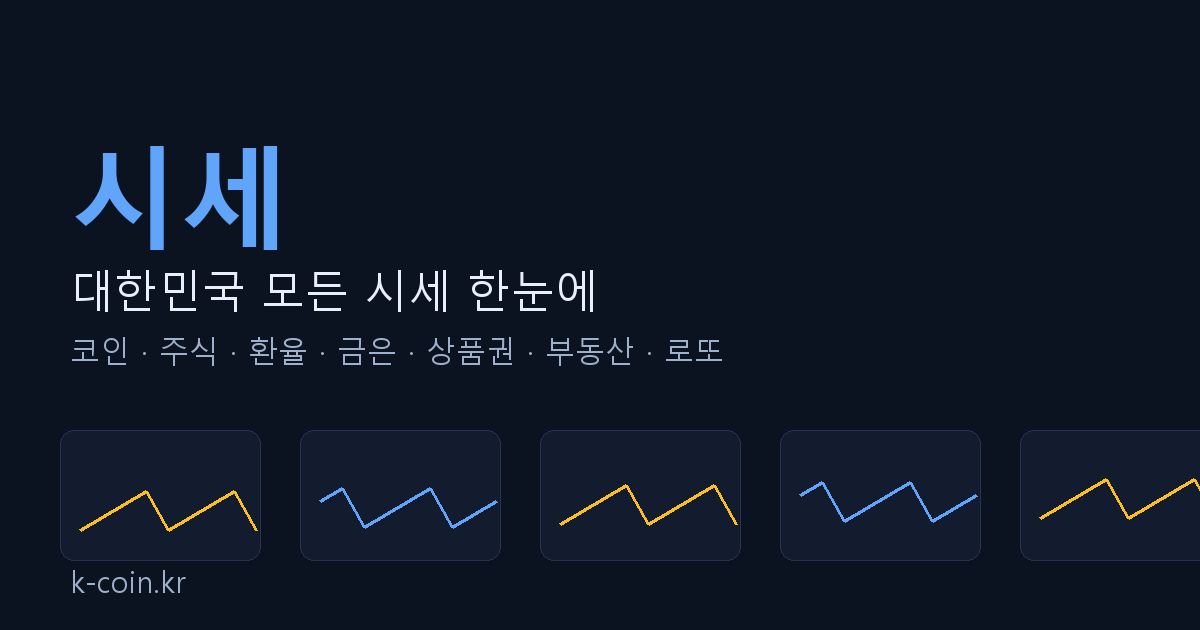
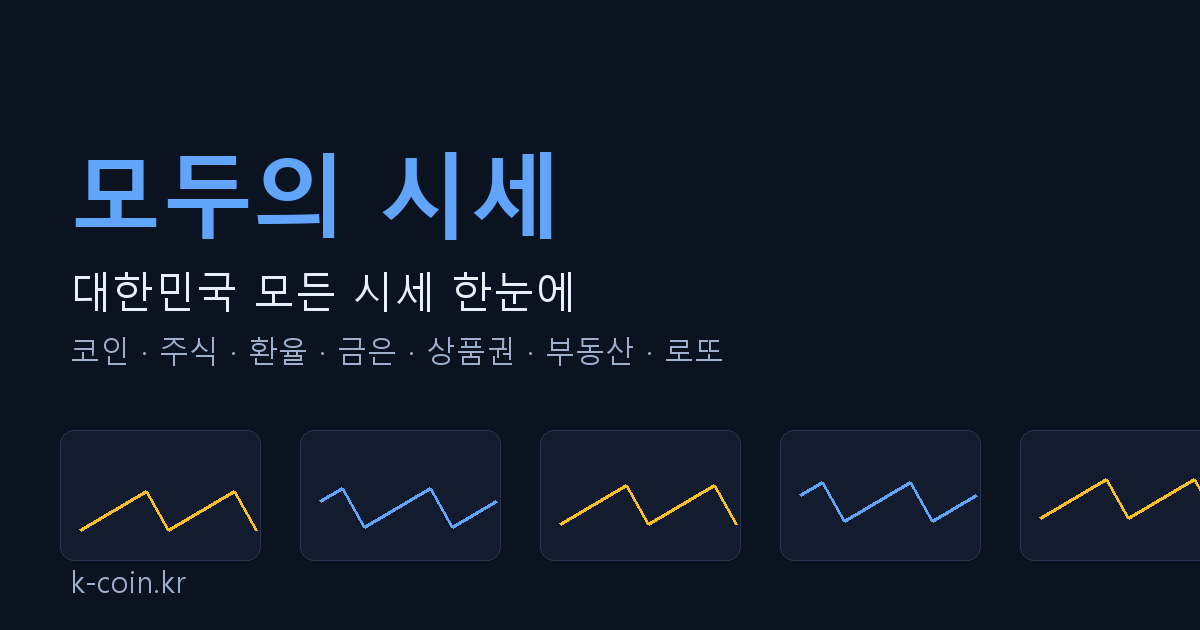
feat: 사이트명을 "모두의 시세"로 변경 + SEO 메타 정비
- 9개 페이지 제목을 "키워드 | 모두의 시세" 패턴으로 통일 (30자 내외)
- 페이지별 고유 설명문 재작성 (34~68자)
- og:site_name · JSON-LD name · 헤더 브랜드 마크 · OG 이미지 · README 반영

"시세" 단독은 일반명사라 브랜드 검색이 불가능했습니다.
"모두의 시세"는 고유 조합이라 브랜드 검색 유입을 만들 수 있습니다.

Changed region(s): [[0.0617, 0.2111, 0.2775, 0.3921], [0.0617, 0.4222, 0.4933, 0.5127], [0.3083, 0.2413, 0.4625, 0.3921]]

diff --git a/index.html b/index.html
@@ -3,30 +3,30 @@
 <head>
 <meta charset="utf-8">
 <meta name="viewport" content="width=device-width, initial-scale=1">
-<title>실시간 종합 시세 | 시세 — 대한민국 모든 시세 한눈에</title>
-<meta name="description" content="코인·주식·코스닥·환율·금·상품권·부동산·로또 시세를 한 화면에서 확인하세요.">
+<title>모두의 시세 — 대한민국 모든 시세 한눈에</title>
+<meta name="description" content="코인·주식·코스닥·환율·금·상품권·부동산·로또까지, 대한민국 모든 시세를 한 화면에서 확인하세요. 매시간 자동 갱신됩니다.">
 <link rel="canonical" href="https://k-coin.kr/">
 <meta name="theme-color" content="#0b1220">
 <link rel="icon" type="image/png" sizes="32x32" href="/assets/favicon-32.png">
 <link rel="apple-touch-icon" href="/assets/apple-touch-icon.png">
 <meta property="og:type" content="website">
-<meta property="og:site_name" content="시세 — 대한민국 모든 시세 한눈에">
+<meta property="og:site_name" content="모두의 시세">
 <meta property="og:locale" content="ko_KR">
-<meta property="og:title" content="실시간 종합 시세 | 시세 — 대한민국 모든 시세 한눈에">
-<meta property="og:description" content="코인·주식·코스닥·환율·금·상품권·부동산·로또 시세를 한 화면에서 확인하세요.">
+<meta property="og:title" content="모두의 시세 — 대한민국 모든 시세 한눈에">
+<meta property="og:description" content="코인·주식·코스닥·환율·금·상품권·부동산·로또까지, 대한민국 모든 시세를 한 화면에서 확인하세요. 매시간 자동 갱신됩니다.">
 <meta property="og:url" content="https://k-coin.kr/">
 <meta property="og:image" content="https://k-coin.kr/assets/og.png">
 <meta property="og:image:width" content="1200">
 <meta property="og:image:height" content="630">
 <meta name="twitter:card" content="summary_large_image">
-<meta name="twitter:title" content="실시간 종합 시세 | 시세 — 대한민국 모든 시세 한눈에">
-<meta name="twitter:description" content="코인·주식·코스닥·환율·금·상품권·부동산·로또 시세를 한 화면에서 확인하세요.">
+<meta name="twitter:title" content="모두의 시세 — 대한민국 모든 시세 한눈에">
+<meta name="twitter:description" content="코인·주식·코스닥·환율·금·상품권·부동산·로또까지, 대한민국 모든 시세를 한 화면에서 확인하세요. 매시간 자동 갱신됩니다.">
 <meta name="twitter:image" content="https://k-coin.kr/assets/og.png">
 <script type="application/ld+json">
 {
   "@context": "https://schema.org",
   "@type": "WebSite",
-  "name": "시세",
+  "name": "모두의 시세",
   "alternateName": "대한민국 모든 시세 한눈에",
   "url": "https://k-coin.kr/",
   "inLanguage": "ko"
@@ -49,7 +49,7 @@ try{var t=localStorage.getItem('theme');if(t)document.documentElement.dataset.th
 
 <main class="wrap">
   <div class="page-head">
-    <h1>시세 <span class="h1-sub">대한민국 모든 시세 한눈에</span></h1>
+    <h1>모두의 시세 <span class="h1-sub">대한민국 모든 시세 한눈에</span></h1>
     <p class="lead">코인 · 주식 · 코스닥 · 환율 · 금은 · 상품권 · 부동산 · 로또를 한 곳에서 봅니다.</p>
   </div>
   <section class="panel">

diff --git a/stock.html b/stock.html
@@ -3,24 +3,24 @@
 <head>
 <meta charset="utf-8">
 <meta name="viewport" content="width=device-width, initial-scale=1">
-<title>주식시세 | 시세 — 대한민국 모든 시세 한눈에</title>
-<meta name="description" content="코스피와 S&P 500·나스닥·다우존스·닛케이 등 국내외 주요 주가지수.">
+<title>주식시세 | 모두의 시세</title>
+<meta name="description" content="코스피와 S&P 500·나스닥·다우존스·닛케이 등 국내외 주요 주가지수 시세를 한눈에 봅니다.">
 <link rel="canonical" href="https://k-coin.kr/stock">
 <meta name="theme-color" content="#0b1220">
 <link rel="icon" type="image/png" sizes="32x32" href="/assets/favicon-32.png">
 <link rel="apple-touch-icon" href="/assets/apple-touch-icon.png">
 <meta property="og:type" content="website">
-<meta property="og:site_name" content="시세 — 대한민국 모든 시세 한눈에">
+<meta property="og:site_name" content="모두의 시세">
 <meta property="og:locale" content="ko_KR">
-<meta property="og:title" content="주식시세 | 시세 — 대한민국 모든 시세 한눈에">
-<meta property="og:description" content="코스피와 S&P 500·나스닥·다우존스·닛케이 등 국내외 주요 주가지수.">
+<meta property="og:title" content="주식시세 | 모두의 시세">
+<meta property="og:description" content="코스피와 S&P 500·나스닥·다우존스·닛케이 등 국내외 주요 주가지수 시세를 한눈에 봅니다.">
 <meta property="og:url" content="https://k-coin.kr/stock">
 <meta property="og:image" content="https://k-coin.kr/assets/og.png">
 <meta property="og:image:width" content="1200">
 <meta property="og:image:height" content="630">
 <meta name="twitter:card" content="summary_large_image">
-<meta name="twitter:title" content="주식시세 | 시세 — 대한민국 모든 시세 한눈에">
-<meta name="twitter:description" content="코스피와 S&P 500·나스닥·다우존스·닛케이 등 국내외 주요 주가지수.">
+<meta name="twitter:title" content="주식시세 | 모두의 시세">
+<meta name="twitter:description" content="코스피와 S&P 500·나스닥·다우존스·닛케이 등 국내외 주요 주가지수 시세를 한눈에 봅니다.">
 <meta name="twitter:image" content="https://k-coin.kr/assets/og.png">
 <meta name="color-scheme" content="light dark">
 <link rel="preconnect" href="https://fonts.googleapis.com">

diff --git a/realestate.html b/realestate.html
@@ -3,24 +3,24 @@
 <head>
 <meta charset="utf-8">
 <meta name="viewport" content="width=device-width, initial-scale=1">
-<title>부동산시세 | 시세 — 대한민국 모든 시세 한눈에</title>
-<meta name="description" content="전국 시도별 아파트 실거래가를 지도에서 확인합니다.">
+<title>부동산시세 | 모두의 시세</title>
+<meta name="description" content="전국 지도에서 지역을 선택해 아파트 매매 실거래가와 시군구별 평균 단가·거래량을 확인합니다.">
 <link rel="canonical" href="https://k-coin.kr/realestate">
 <meta name="theme-color" content="#0b1220">
 <link rel="icon" type="image/png" sizes="32x32" href="/assets/favicon-32.png">
 <link rel="apple-touch-icon" href="/assets/apple-touch-icon.png">
 <meta property="og:type" content="website">
-<meta property="og:site_name" content="시세 — 대한민국 모든 시세 한눈에">
+<meta property="og:site_name" content="모두의 시세">
 <meta property="og:locale" content="ko_KR">
-<meta property="og:title" content="부동산시세 | 시세 — 대한민국 모든 시세 한눈에">
-<meta property="og:description" content="전국 시도별 아파트 실거래가를 지도에서 확인합니다.">
+<meta property="og:title" content="부동산시세 | 모두의 시세">
+<meta property="og:description" content="전국 지도에서 지역을 선택해 아파트 매매 실거래가와 시군구별 평균 단가·거래량을 확인합니다.">
 <meta property="og:url" content="https://k-coin.kr/realestate">
 <meta property="og:image" content="https://k-coin.kr/assets/og.png">
 <meta property="og:image:width" content="1200">
 <meta property="og:image:height" content="630">
 <meta name="twitter:card" content="summary_large_image">
-<meta name="twitter:title" content="부동산시세 | 시세 — 대한민국 모든 시세 한눈에">
-<meta name="twitter:description" content="전국 시도별 아파트 실거래가를 지도에서 확인합니다.">
+<meta name="twitter:title" content="부동산시세 | 모두의 시세">
+<meta name="twitter:description" content="전국 지도에서 지역을 선택해 아파트 매매 실거래가와 시군구별 평균 단가·거래량을 확인합니다.">
 <meta name="twitter:image" content="https://k-coin.kr/assets/og.png">
 <meta name="color-scheme" content="light dark">
 <link rel="preconnect" href="https://fonts.googleapis.com">

diff --git a/giftcard.html b/giftcard.html
@@ -3,24 +3,24 @@
 <head>
 <meta charset="utf-8">
 <meta name="viewport" content="width=device-width, initial-scale=1">
-<title>상품권시세 | 시세 — 대한민국 모든 시세 한눈에</title>
-<meta name="description" content="백화점 상품권 매입가·판매가를 업체별로 비교합니다.">
+<title>상품권시세 | 모두의 시세</title>
+<meta name="description" content="롯데·신세계·현대 등 백화점 상품권 매입가·판매가를 상품권 업체별로 비교합니다.">
 <link rel="canonical" href="https://k-coin.kr/giftcard">
 <meta name="theme-color" content="#0b1220">
 <link rel="icon" type="image/png" sizes="32x32" href="/assets/favicon-32.png">
 <link rel="apple-touch-icon" href="/assets/apple-touch-icon.png">
 <meta property="og:type" content="website">
-<meta property="og:site_name" content="시세 — 대한민국 모든 시세 한눈에">
+<meta property="og:site_name" content="모두의 시세">
 <meta property="og:locale" content="ko_KR">
-<meta property="og:title" content="상품권시세 | 시세 — 대한민국 모든 시세 한눈에">
-<meta property="og:description" content="백화점 상품권 매입가·판매가를 업체별로 비교합니다.">
+<meta property="og:title" content="상품권시세 | 모두의 시세">
+<meta property="og:description" content="롯데·신세계·현대 등 백화점 상품권 매입가·판매가를 상품권 업체별로 비교합니다.">
 <meta property="og:url" content="https://k-coin.kr/giftcard">
 <meta property="og:image" content="https://k-coin.kr/assets/og.png">
 <meta property="og:image:width" content="1200">
 <meta property="og:image:height" content="630">
 <meta name="twitter:card" content="summary_large_image">
-<meta name="twitter:title" content="상품권시세 | 시세 — 대한민국 모든 시세 한눈에">
-<meta name="twitter:description" content="백화점 상품권 매입가·판매가를 업체별로 비교합니다.">
+<meta name="twitter:title" content="상품권시세 | 모두의 시세">
+<meta name="twitter:description" content="롯데·신세계·현대 등 백화점 상품권 매입가·판매가를 상품권 업체별로 비교합니다.">
 <meta name="twitter:image" content="https://k-coin.kr/assets/og.png">
 <meta name="color-scheme" content="light dark">
 <link rel="preconnect" href="https://fonts.googleapis.com">

diff --git a/lotto.html b/lotto.html
@@ -3,24 +3,24 @@
 <head>
 <meta charset="utf-8">
 <meta name="viewport" content="width=device-width, initial-scale=1">
-<title>로또 판매 규모 | 시세 — 대한민국 모든 시세 한눈에</title>
-<meta name="description" content="로또 6/45 회차별 당첨번호와 총 판매금액, 추정 구매자 수.">
+<title>로또 판매 규모 | 모두의 시세</title>
+<meta name="description" content="로또 6/45 회차별 당첨번호와 총 판매금액, 추정 구매자 수를 제공합니다.">
 <link rel="canonical" href="https://k-coin.kr/lotto">
 <meta name="theme-color" content="#0b1220">
 <link rel="icon" type="image/png" sizes="32x32" href="/assets/favicon-32.png">
 <link rel="apple-touch-icon" href="/assets/apple-touch-icon.png">
 <meta property="og:type" content="website">
-<meta property="og:site_name" content="시세 — 대한민국 모든 시세 한눈에">
+<meta property="og:site_name" content="모두의 시세">
 <meta property="og:locale" content="ko_KR">
-<meta property="og:title" content="로또 판매 규모 | 시세 — 대한민국 모든 시세 한눈에">
-<meta property="og:description" content="로또 6/45 회차별 당첨번호와 총 판매금액, 추정 구매자 수.">
+<meta property="og:title" content="로또 판매 규모 | 모두의 시세">
+<meta property="og:description" content="로또 6/45 회차별 당첨번호와 총 판매금액, 추정 구매자 수를 제공합니다.">
 <meta property="og:url" content="https://k-coin.kr/lotto">
 <meta property="og:image" content="https://k-coin.kr/assets/og.png">
 <meta property="og:image:width" content="1200">
 <meta property="og:image:height" content="630">
 <meta name="twitter:card" content="summary_large_image">
-<meta name="twitter:title" content="로또 판매 규모 | 시세 — 대한민국 모든 시세 한눈에">
-<meta name="twitter:description" content="로또 6/45 회차별 당첨번호와 총 판매금액, 추정 구매자 수.">
+<meta name="twitter:title" content="로또 판매 규모 | 모두의 시세">
+<meta name="twitter:description" content="로또 6/45 회차별 당첨번호와 총 판매금액, 추정 구매자 수를 제공합니다.">
 <meta name="twitter:image" content="https://k-coin.kr/assets/og.png">
 <meta name="color-scheme" content="light dark">
 <link rel="preconnect" href="https://fonts.googleapis.com">

diff --git a/coin.html b/coin.html
@@ -3,24 +3,24 @@
 <head>
 <meta charset="utf-8">
 <meta name="viewport" content="width=device-width, initial-scale=1">
-<title>코인시세 | 시세 — 대한민국 모든 시세 한눈에</title>
-<meta name="description" content="업비트 KRW 마켓 24시간 거래대금 상위 10개 코인 시세.">
+<title>코인시세 | 모두의 시세</title>
+<meta name="description" content="업비트 KRW 마켓 24시간 거래대금 상위 10개 코인의 실시간 시세와 최근 추이를 제공합니다.">
 <link rel="canonical" href="https://k-coin.kr/coin">
 <meta name="theme-color" content="#0b1220">
 <link rel="icon" type="image/png" sizes="32x32" href="/assets/favicon-32.png">
 <link rel="apple-touch-icon" href="/assets/apple-touch-icon.png">
 <meta property="og:type" content="website">
-<meta property="og:site_name" content="시세 — 대한민국 모든 시세 한눈에">
+<meta property="og:site_name" content="모두의 시세">
 <meta property="og:locale" content="ko_KR">
-<meta property="og:title" content="코인시세 | 시세 — 대한민국 모든 시세 한눈에">
-<meta property="og:description" content="업비트 KRW 마켓 24시간 거래대금 상위 10개 코인 시세.">
+<meta property="og:title" content="코인시세 | 모두의 시세">
+<meta property="og:description" content="업비트 KRW 마켓 24시간 거래대금 상위 10개 코인의 실시간 시세와 최근 추이를 제공합니다.">
 <meta property="og:url" content="https://k-coin.kr/coin">
 <meta property="og:image" content="https://k-coin.kr/assets/og.png">
 <meta property="og:image:width" content="1200">
 <meta property="og:image:height" content="630">
 <meta name="twitter:card" content="summary_large_image">
-<meta name="twitter:title" content="코인시세 | 시세 — 대한민국 모든 시세 한눈에">
-<meta name="twitter:description" content="업비트 KRW 마켓 24시간 거래대금 상위 10개 코인 시세.">
+<meta name="twitter:title" content="코인시세 | 모두의 시세">
+<meta name="twitter:description" content="업비트 KRW 마켓 24시간 거래대금 상위 10개 코인의 실시간 시세와 최근 추이를 제공합니다.">
 <meta name="twitter:image" content="https://k-coin.kr/assets/og.png">
 <meta name="color-scheme" content="light dark">
 <link rel="preconnect" href="https://fonts.googleapis.com">

diff --git a/metal.html b/metal.html
@@ -3,24 +3,24 @@
 <head>
 <meta charset="utf-8">
 <meta name="viewport" content="width=device-width, initial-scale=1">
-<title>금·은시세 | 시세 — 대한민국 모든 시세 한눈에</title>
-<meta name="description" content="국제 금·은·백금 시세와 국내 금 1돈 환산가.">
+<title>금·은시세 | 모두의 시세</title>
+<meta name="description" content="국제 금·은·백금 시세와 국내 금 1돈(3.75g) 환산 가격을 제공합니다.">
 <link rel="canonical" href="https://k-coin.kr/metal">
 <meta name="theme-color" content="#0b1220">
 <link rel="icon" type="image/png" sizes="32x32" href="/assets/favicon-32.png">
 <link rel="apple-touch-icon" href="/assets/apple-touch-icon.png">
 <meta property="og:type" content="website">
-<meta property="og:site_name" content="시세 — 대한민국 모든 시세 한눈에">
+<meta property="og:site_name" content="모두의 시세">
 <meta property="og:locale" content="ko_KR">
-<meta property="og:title" content="금·은시세 | 시세 — 대한민국 모든 시세 한눈에">
-<meta property="og:description" content="국제 금·은·백금 시세와 국내 금 1돈 환산가.">
+<meta property="og:title" content="금·은시세 | 모두의 시세">
+<meta property="og:description" content="국제 금·은·백금 시세와 국내 금 1돈(3.75g) 환산 가격을 제공합니다.">
 <meta property="og:url" content="https://k-coin.kr/metal">
 <meta property="og:image" content="https://k-coin.kr/assets/og.png">
 <meta property="og:image:width" content="1200">
 <meta property="og:image:height" content="630">
 <meta name="twitter:card" content="summary_large_image">
-<meta name="twitter:title" content="금·은시세 | 시세 — 대한민국 모든 시세 한눈에">
-<meta name="twitter:description" content="국제 금·은·백금 시세와 국내 금 1돈 환산가.">
+<meta name="twitter:title" content="금·은시세 | 모두의 시세">
+<meta name="twitter:description" content="국제 금·은·백금 시세와 국내 금 1돈(3.75g) 환산 가격을 제공합니다.">
 <meta name="twitter:image" content="https://k-coin.kr/assets/og.png">
 <meta name="color-scheme" content="light dark">
 <link rel="preconnect" href="https://fonts.googleapis.com">

diff --git a/fx.html b/fx.html
@@ -3,24 +3,24 @@
 <head>
 <meta charset="utf-8">
 <meta name="viewport" content="width=device-width, initial-scale=1">
-<title>환율시세 | 시세 — 대한민국 모든 시세 한눈에</title>
-<meta name="description" content="달러·엔·유로·위안 대비 원화 환율.">
+<title>환율시세 | 모두의 시세</title>
+<meta name="description" content="달러·엔·유로·위안 대비 원화 환율과 최근 추이를 매시간 갱신해 보여줍니다.">
 <link rel="canonical" href="https://k-coin.kr/fx">
 <meta name="theme-color" content="#0b1220">
 <link rel="icon" type="image/png" sizes="32x32" href="/assets/favicon-32.png">
 <link rel="apple-touch-icon" href="/assets/apple-touch-icon.png">
 <meta property="og:type" content="website">
-<meta property="og:site_name" content="시세 — 대한민국 모든 시세 한눈에">
+<meta property="og:site_name" content="모두의 시세">
 <meta property="og:locale" content="ko_KR">
-<meta property="og:title" content="환율시세 | 시세 — 대한민국 모든 시세 한눈에">
-<meta property="og:description" content="달러·엔·유로·위안 대비 원화 환율.">
+<meta property="og:title" content="환율시세 | 모두의 시세">
+<meta property="og:description" content="달러·엔·유로·위안 대비 원화 환율과 최근 추이를 매시간 갱신해 보여줍니다.">
 <meta property="og:url" content="https://k-coin.kr/fx">
 <meta property="og:image" content="https://k-coin.kr/assets/og.png">
 <meta property="og:image:width" content="1200">
 <meta property="og:image:height" content="630">
 <meta name="twitter:card" content="summary_large_image">
-<meta name="twitter:title" content="환율시세 | 시세 — 대한민국 모든 시세 한눈에">
-<meta name="twitter:description" content="달러·엔·유로·위안 대비 원화 환율.">
+<meta name="twitter:title" content="환율시세 | 모두의 시세">
+<meta name="twitter:description" content="달러·엔·유로·위안 대비 원화 환율과 최근 추이를 매시간 갱신해 보여줍니다.">
 <meta name="twitter:image" content="https://k-coin.kr/assets/og.png">
 <meta name="color-scheme" content="light dark">
 <link rel="preconnect" href="https://fonts.googleapis.com">

diff --git a/kosdaq.html b/kosdaq.html
@@ -3,24 +3,24 @@
 <head>
 <meta charset="utf-8">
 <meta name="viewport" content="width=device-width, initial-scale=1">
-<title>코스닥시세 | 시세 — 대한민국 모든 시세 한눈에</title>
-<meta name="description" content="코스닥 지수 실시간 시세와 최근 추이.">
+<title>코스닥시세 | 모두의 시세</title>
+<meta name="description" content="코스닥 지수 실시간 시세와 최근 40거래일 추이를 제공합니다.">
 <link rel="canonical" href="https://k-coin.kr/kosdaq">
 <meta name="theme-color" content="#0b1220">
 <link rel="icon" type="image/png" sizes="32x32" href="/assets/favicon-32.png">
 <link rel="apple-touch-icon" href="/assets/apple-touch-icon.png">
 <meta property="og:type" content="website">
-<meta property="og:site_name" content="시세 — 대한민국 모든 시세 한눈에">
+<meta property="og:site_name" content="모두의 시세">
 <meta property="og:locale" content="ko_KR">
-<meta property="og:title" content="코스닥시세 | 시세 — 대한민국 모든 시세 한눈에">
-<meta property="og:description" content="코스닥 지수 실시간 시세와 최근 추이.">
+<meta property="og:title" content="코스닥시세 | 모두의 시세">
+<meta property="og:description" content="코스닥 지수 실시간 시세와 최근 40거래일 추이를 제공합니다.">
 <meta property="og:url" content="https://k-coin.kr/kosdaq">
 <meta property="og:image" content="https://k-coin.kr/assets/og.png">
 <meta property="og:image:width" content="1200">
 <meta property="og:image:height" content="630">
 <meta name="twitter:card" content="summary_large_image">
-<meta name="twitter:title" content="코스닥시세 | 시세 — 대한민국 모든 시세 한눈에">
-<meta name="twitter:description" content="코스닥 지수 실시간 시세와 최근 추이.">
+<meta name="twitter:title" content="코스닥시세 | 모두의 시세">
+<meta name="twitter:description" content="코스닥 지수 실시간 시세와 최근 40거래일 추이를 제공합니다.">
 <meta name="twitter:image" content="https://k-coin.kr/assets/og.png">
 <meta name="color-scheme" content="light dark">
 <link rel="preconnect" href="https://fonts.googleapis.com">

diff --git a/assets/app.js b/assets/app.js
@@ -82,7 +82,7 @@ function renderShell() {
 <header class="site-header">
   <div class="wrap">
     <a class="brand" href="index.html">
-      <span class="brand-mark">시세</span>
+      <span class="brand-mark">모두의 시세</span>
       <span class="brand-text">대한민국 모든 시세 한눈에</span>
     </a>
     <p class="status" id="updated"><span class="dot"></span>불러오는 중…</p>

diff --git a/README.md b/README.md
@@ -1,8 +1,8 @@
-# 종합 시세 사이트
+# 모두의 시세 — 대한민국 모든 시세 한눈에
 
 상품권 · 주가지수 · 귀금속 · 환율 · 암호화폐 · 로또 판매 규모를 메뉴별로 봅니다.
 
-<https://26-07-19marketprice.pages.dev>
+<https://k-coin.kr>
 
 빌드 도구가 없는 순수 정적 사이트입니다. GitHub Actions가 매시간 시세를 수집해
 `data/*.json` 으로 커밋하고, 브라우저는 그 JSON만 읽습니다.
@@ -148,9 +148,9 @@ Yahoo 차트 API 의 `meta.chartPreviousClose` 는 **전일 종가가 아니라 
 ## 배포 (Cloudflare Pages)
 
 이 저장소의 `main` 브랜치가 Cloudflare Pages 에 연결돼 있어 push 하면 자동 배포됩니다.
-빌드 명령 없이 저장소 루트를 그대로 서빙합니다. 커스텀 도메인은 추후 연결 예정.
+빌드 명령 없이 저장소 루트를 그대로 서빙합니다. 커스텀 도메인: k-coin.kr / www.k-coin.kr
 
-<https://26-07-19marketprice.pages.dev>
+<https://k-coin.kr> · <https://26-07-19marketprice.pages.dev>
 
 ### 데이터 경로가 절대경로인 이유
 
